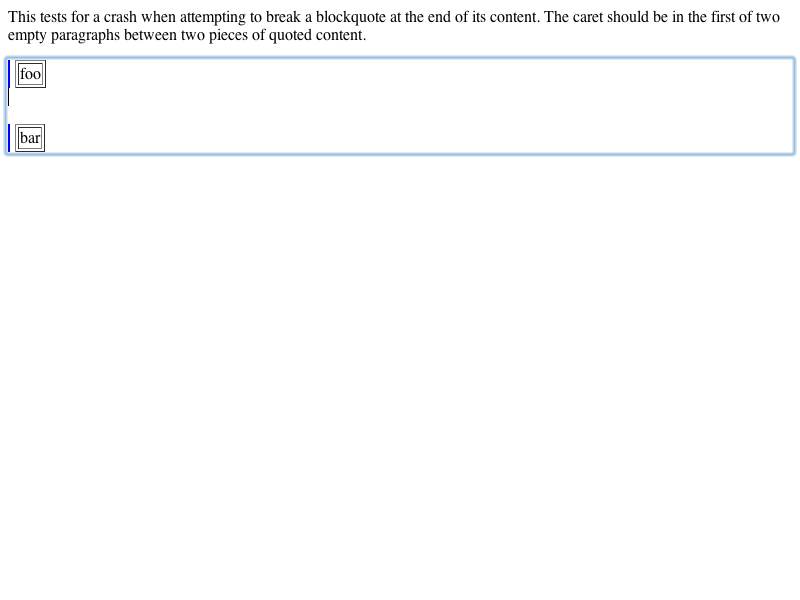
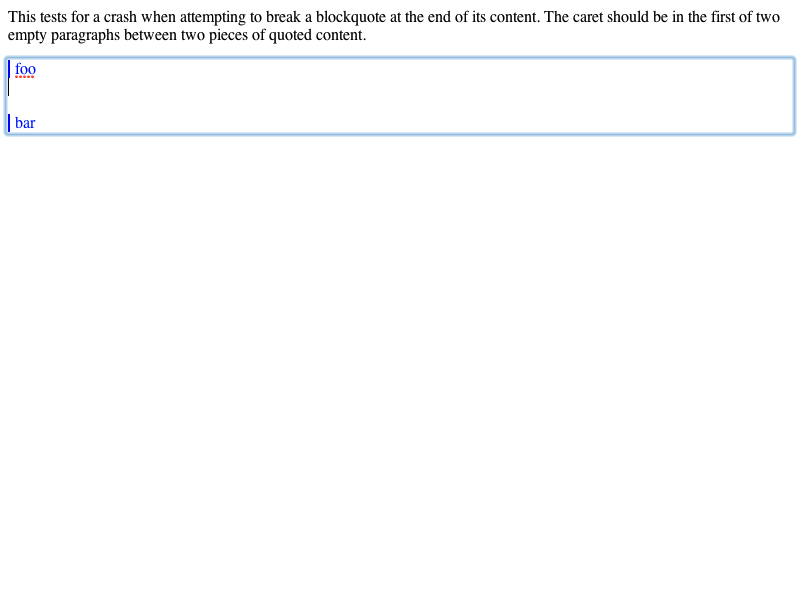
WebCore:
2009-04-11  Adele Peterson  <adele@apple.com>

        Reviewed by Dan Bernstein.

        Fix for <rdar://problem/6609479> Pressing return inside a table cell that's inside quoted content will split the table

        Test: editing/inserting/6609479.html

        Don't break a blockquote if pasting or inserting into a table.

        * editing/ReplaceSelectionCommand.cpp: (WebCore::ReplaceSelectionCommand::doApply):
        * editing/TypingCommand.cpp: (WebCore::TypingCommand::insertParagraphSeparatorInQuotedContent):

LayoutTests:

2009-04-11  Adele Peterson  <adele@apple.com>

        Reviewed by Dan Bernstein.

        Tests for <rdar://problem/6609479> Pressing return inside a table cell that's inside quoted content will split the table

        * editing/inserting/5418891.html: Changed test so it doesn't involve tables.
        * editing/inserting/6609479-expected.txt: Added.
        * editing/inserting/6609479.html: Added.
        * platform/mac/editing/inserting/5418891-expected.checksum:
        * platform/mac/editing/inserting/5418891-expected.png:
        * platform/mac/editing/inserting/5418891-expected.txt:

Identifier: 34479@main
git-svn-id: https://svn.webkit.org/repository/webkit/trunk@42425 268f45cc-cd09-0410-ab3c-d52691b4dbfc

Changed region(s): [[0.0, 0.18, 1.0, 0.27], [0.0, 0.09, 0.0625, 0.15]]

diff --git a/LayoutTests/editing/inserting/6609479.html b/LayoutTests/editing/inserting/6609479.html
@@ -1,0 +1,33 @@
+<html>
+    <head>
+        <script>
+            function log(msg)
+            {
+                document.getElementById('console').appendChild(document.createTextNode(msg + '\n'));
+            }
+            
+            function test()
+            {
+                if (window.layoutTestController)
+                    layoutTestController.dumpAsText();
+                var td = document.getElementById("td");
+                var text = td.firstChild;
+                var s = window.getSelection();
+                s.setPosition(text, 3);
+                document.execCommand("InsertNewlineInQuotedContent");
+                var tables = document.getElementsByTagName("table"); 
+                if (tables.length == 1)
+                    log("Test Passed");
+                else
+                    log ("Test Failed");
+            }
+        </script>
+    </head>
+    <body onload="test()">
+        <p>This tests that inserting a newline inside a table still works and doesn't break the table apart, even when in quoted content.</p>
+        <div contenteditable="true">
+            <blockquote type="cite"><table border="1" id="tb"><tr><td id="td">foobar</td></tr></table></blockquote>
+        </div>
+        <pre id="console"></pre>
+    </body>
+</html>

diff --git a/LayoutTests/editing/inserting/5418891.html b/LayoutTests/editing/inserting/5418891.html
@@ -8,14 +8,14 @@ blockquote {
 </style>
 <p>This tests for a crash when attempting to break a blockquote at the end of its content.  The caret should be in the first of two empty paragraphs between two pieces of quoted content.</p>
 <div contenteditable="true">
-<blockquote type="cite"><table border="1"><tr><td id="td">foo</td></tr></table></blockquote>
+<blockquote type="cite"><div id="dv">foo</div></blockquote>
 <br>
-<blockquote type="cite"><table border="1"><tr><td>bar</td></tr></table></blockquote>
+<blockquote type="cite"><div>bar</div></blockquote>
 </div>
 
 <script>
-td = document.getElementById("td");
-text = td.firstChild;
+dv = document.getElementById("dv");
+text = dv.firstChild;
 s = window.getSelection();
 s.setPosition(text, 3);
 document.execCommand("InsertNewlineInQuotedContent");

diff --git a/WebCore/editing/ReplaceSelectionCommand.cpp b/WebCore/editing/ReplaceSelectionCommand.cpp
@@ -772,9 +772,10 @@ void ReplaceSelectionCommand::doApply()
         insertionPos = endingSelection().start();
     }
     
-    if (startIsInsideMailBlockquote && m_preventNesting) { 
-        // We don't want any of the pasted content to end up nested in a Mail blockquote, so first break 
-        // out of any surrounding Mail blockquotes. 
+    // We don't want any of the pasted content to end up nested in a Mail blockquote, so first break 
+    // out of any surrounding Mail blockquotes. Unless we're inserting in a table, in which case
+    // breaking the blockquote will prevent the content from actually being inserted in the table.
+    if (startIsInsideMailBlockquote && m_preventNesting && !(enclosingNodeOfType(insertionPos, &isTableStructureNode))) { 
         applyCommandToComposite(BreakBlockquoteCommand::create(document())); 
         // This will leave a br between the split. 
         Node* br = endingSelection().start().node(); 

diff --git a/WebCore/editing/TypingCommand.cpp b/WebCore/editing/TypingCommand.cpp
@@ -358,6 +358,13 @@ void TypingCommand::insertParagraphSeparator()
 
 void TypingCommand::insertParagraphSeparatorInQuotedContent()
 {
+    // If the selection starts inside a table, just insert the paragraph separator normally
+    // Breaking the blockquote would also break apart the table, which is unecessary when inserting a newline
+    if (enclosingNodeOfType(endingSelection().start(), &isTableStructureNode)) {
+        insertParagraphSeparator();
+        return;
+    }
+        
     applyCommandToComposite(BreakBlockquoteCommand::create(document()));
     typingAddedToOpenCommand();
 }
